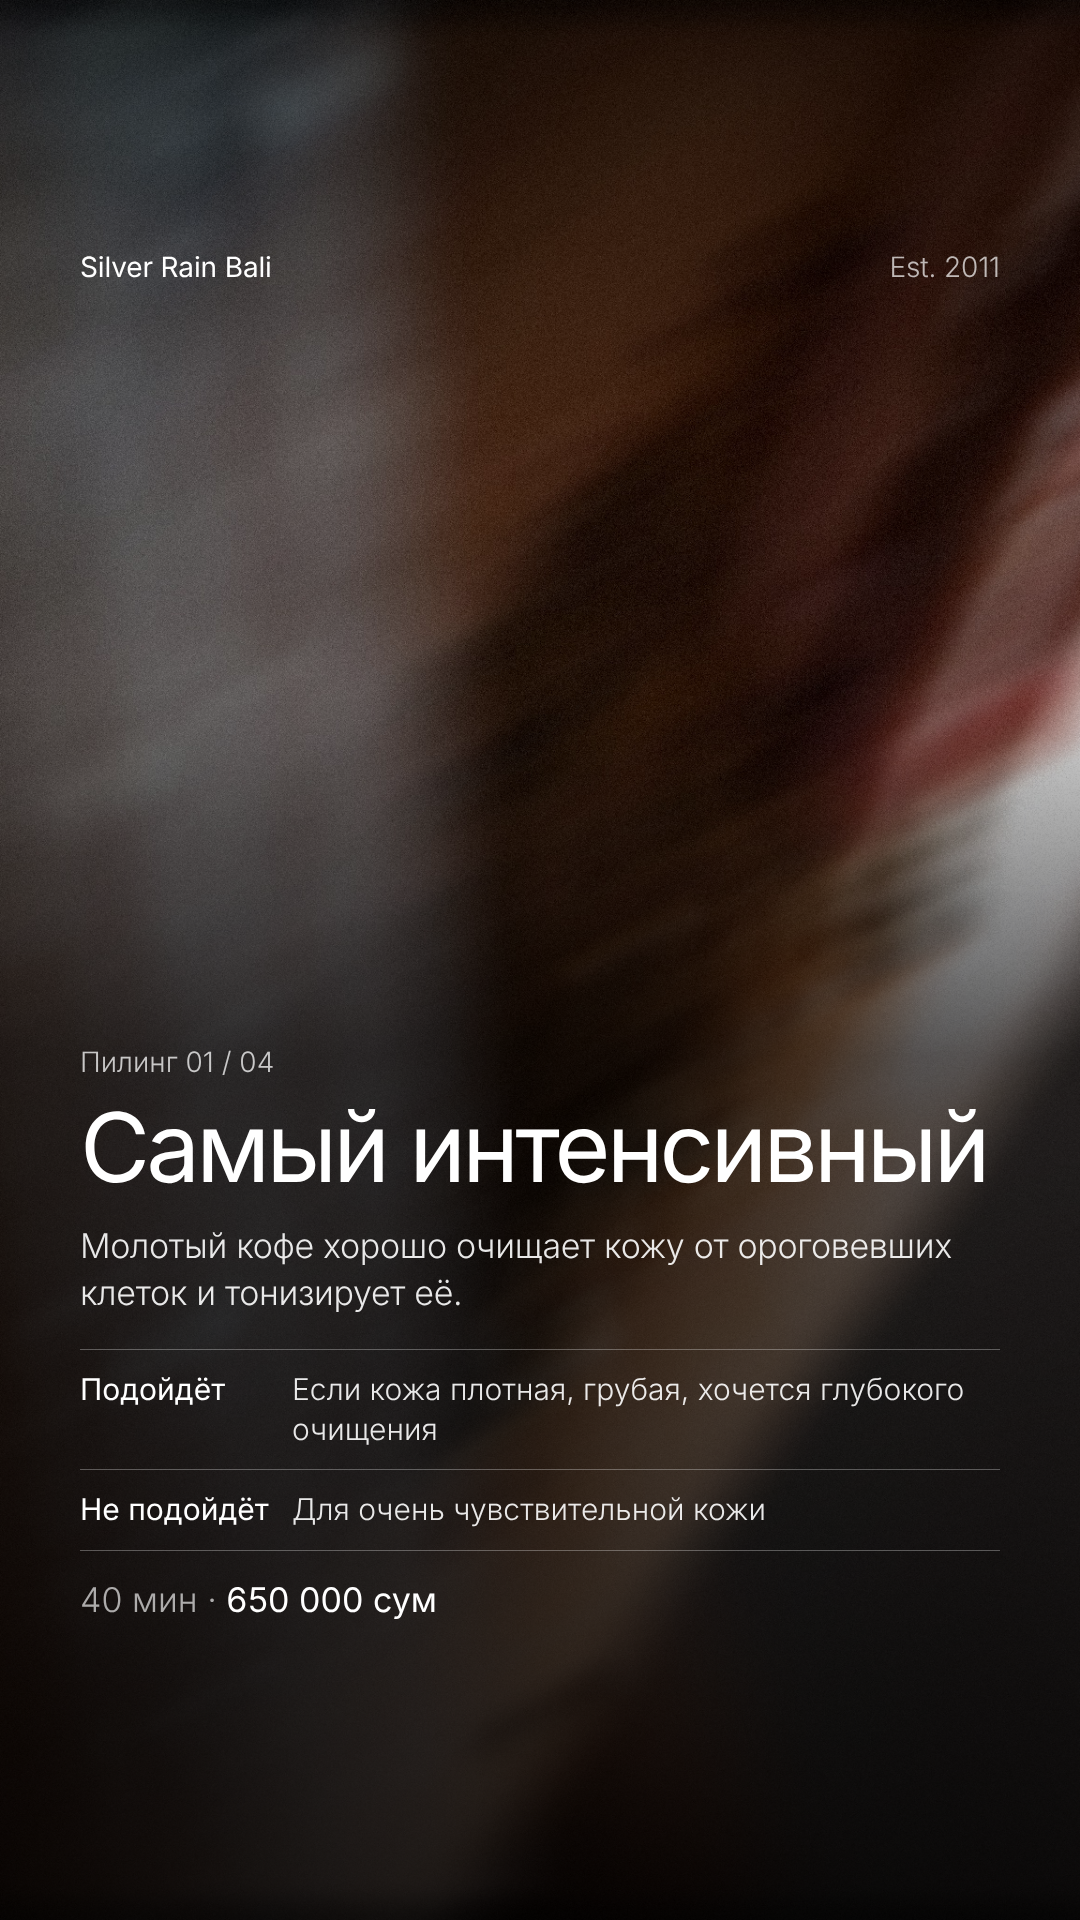
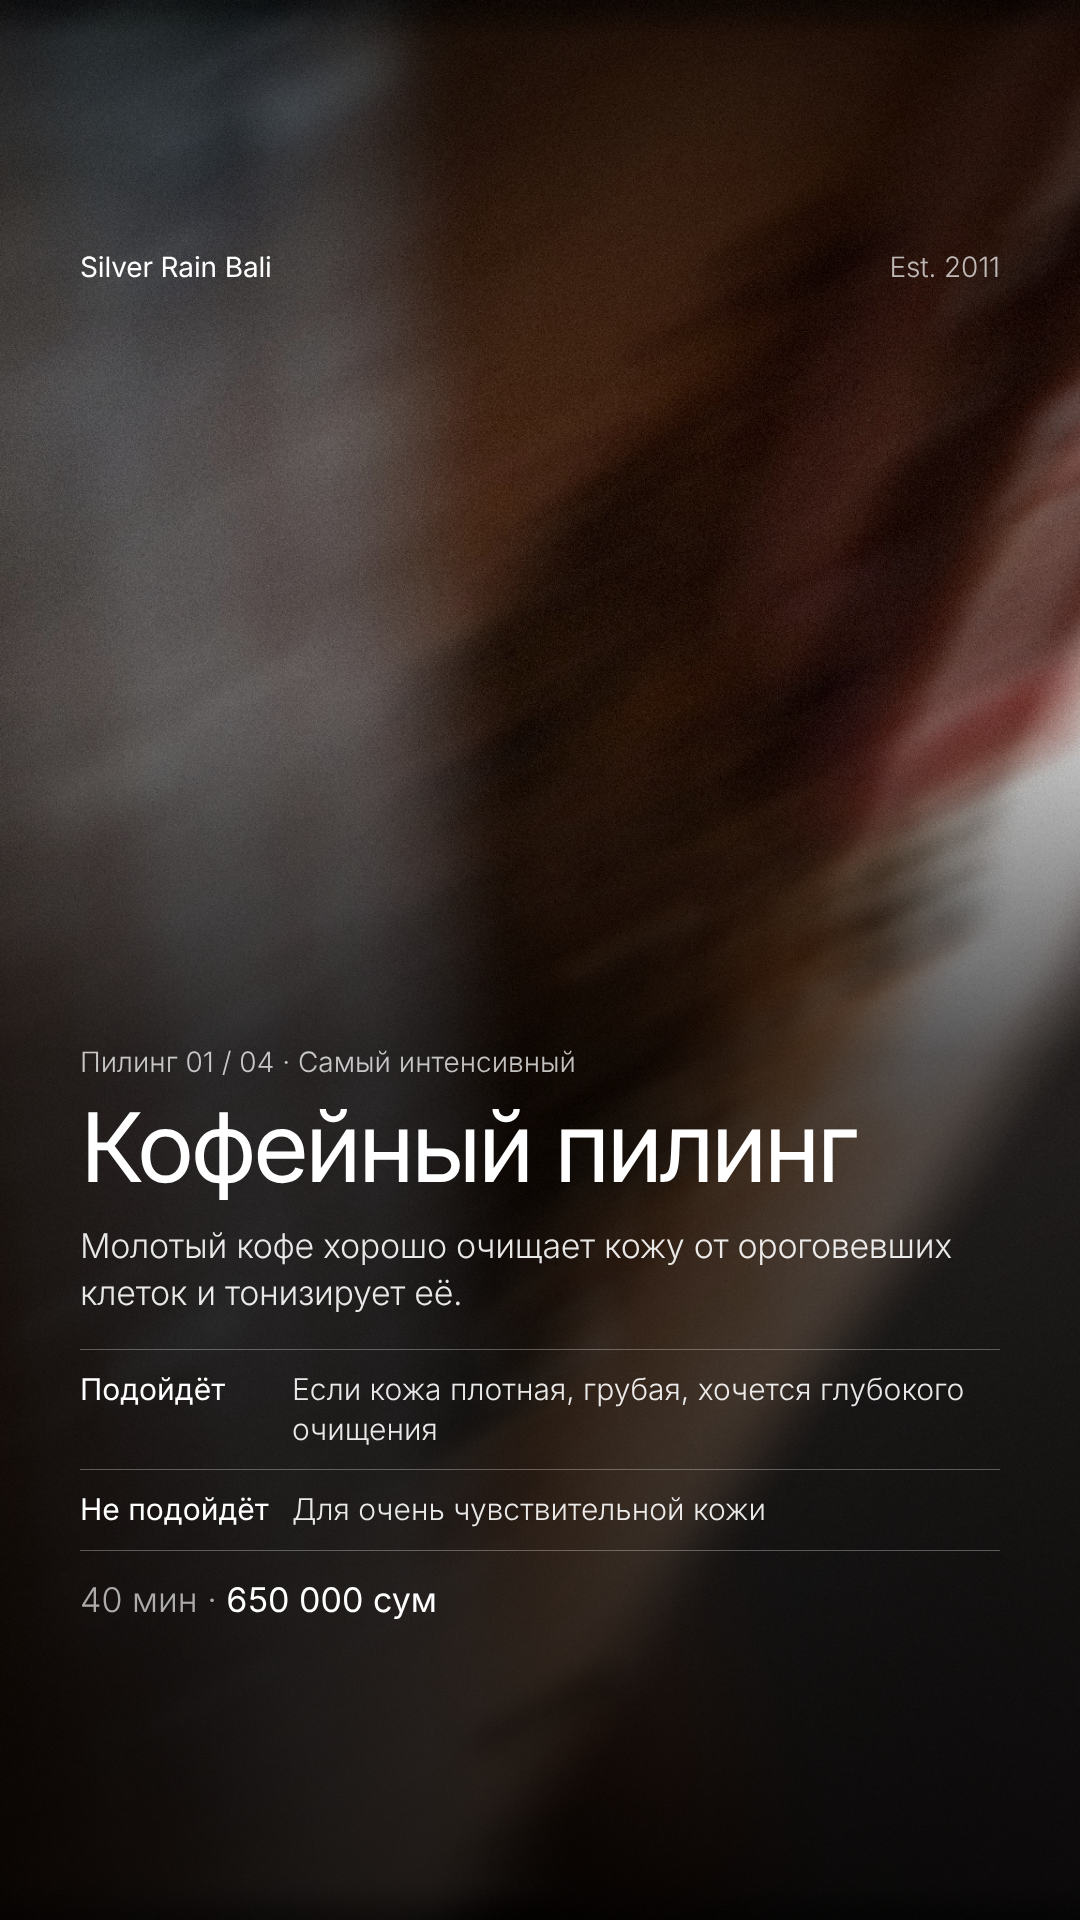
Silver Rain Bali stories: peeling 02 citrus; align peeling 01 layout
Claude-Session: https://claude.ai/code/session_016hDDYxXRao7raJTtdDbdUH

Changed region(s): [[0.0611, 0.5312, 0.6722, 0.625], [0.7028, 0.5625, 0.9167, 0.625]]

diff --git a/stories-silverrain/story45.html b/stories-silverrain/story45.html
@@ -1,0 +1,41 @@
+<!doctype html><html><head><meta charset="utf-8"><style>
+*{margin:0;padding:0;box-sizing:border-box}
+.story{position:relative;width:1080px;height:1920px;overflow:hidden;color:#FFF;
+  font-family:"SF Pro Display","Inter Display",sans-serif;-webkit-font-smoothing:antialiased;
+  background:url(peel3-blur.jpg) center/cover}
+.story::after{content:"";position:absolute;inset:0;background:linear-gradient(180deg,rgba(0,0,0,.30) 0%,rgba(0,0,0,0) 22%,rgba(0,0,0,0) 45%,rgba(0,0,0,.55) 75%,rgba(0,0,0,.70) 100%)}
+.z{position:absolute;z-index:2}
+.top{top:250px;left:80px;right:80px;display:flex;justify-content:space-between;font-size:28px;font-weight:400;letter-spacing:-.005em}
+.top .d{opacity:.7;font-weight:300}
+.txt{left:80px;right:80px;bottom:300px}
+h1{font-weight:300;font-size:96px;line-height:1;letter-spacing:-.04em}
+h1 b{font-weight:400}
+.body{margin-top:48px;font-size:38px;font-weight:300;line-height:1.38;letter-spacing:-.01em;color:rgba(255,255,255,.88)}
+.body b{font-weight:400;color:#FFF}
+.cta{margin-top:56px;display:inline-flex;align-items:center;gap:18px;padding:22px 34px;border:1.5px solid rgba(255,255,255,.7);border-radius:100px;font-size:30px;font-weight:400;letter-spacing:-.01em;background:rgba(255,255,255,.08);backdrop-filter:blur(10px)}
+.cta span{font-size:30px}
+.story::after{background:linear-gradient(180deg,rgba(0,0,0,.45) 0%,rgba(0,0,0,.1) 22%,rgba(0,0,0,.15) 36%,rgba(0,0,0,.65) 55%,rgba(0,0,0,.85) 100%)}
+.facts{margin-top:40px;display:flex;border-top:1px solid rgba(255,255,255,.3);border-bottom:1px solid rgba(255,255,255,.3)}
+.facts div{flex:1;padding:24px 0}
+.facts div+div{border-left:1px solid rgba(255,255,255,.3);padding-left:28px}
+.facts b{display:block;font-size:48px;font-weight:400;letter-spacing:-.03em}
+.facts span{font-size:24px;font-weight:300;color:rgba(255,255,255,.7)}
+.body{margin-top:36px}
+.pre{font-size:28px;font-weight:300;color:rgba(255,255,255,.75);margin-bottom:20px}
+.pd{margin-top:28px;font-size:34px;font-weight:300;line-height:1.38;color:rgba(255,255,255,.9);letter-spacing:-.01em}
+.yn{margin-top:32px;border-top:1px solid rgba(255,255,255,.3)}
+.yn div{display:flex;gap:22px;padding:20px 0;border-bottom:1px solid rgba(255,255,255,.3);font-size:30px;font-weight:300;line-height:1.32;color:rgba(255,255,255,.9)}
+.yn b{flex:0 0 190px;font-weight:400;color:#fff}
+.pr{margin-top:28px;font-size:34px;font-weight:400}
+.pr span{color:rgba(255,255,255,.65);font-weight:300}
+</style></head><body>
+<section class="story">
+  <div class="z top"><div>Silver Rain Bali</div><div class="d">Est. 2011</div></div>
+  <div class="z txt">
+    <div class="pre">Пилинг 02 / 04 · Освежающий</div>
+    <h1><b>Цитрусовый пилинг</b></h1>
+    <div class="pd">Средней интенсивности, с&nbsp;ярким цитрусовым ароматом. Освежает кожу и&nbsp;бодрит.</div>
+    <div class="yn"><div><b>Подойдёт</b><span>Когда кожа выглядит уставшей и&nbsp;тусклой, хочется лёгкости и&nbsp;энергии</span></div></div>
+    <div class="pr"><span>40 мин ·</span> 650 000 сум</div>
+  </div>
+</section></body></html>

diff --git a/stories-silverrain/story44.html b/stories-silverrain/story44.html
@@ -32,8 +32,8 @@ h1 b{font-weight:400}
 <section class="story">
   <div class="z top"><div>Silver Rain Bali</div><div class="d">Est. 2011</div></div>
   <div class="z txt">
-    <div class="pre">Пилинг 01 / 04</div>
-    <h1><b>Самый интенсивный</b></h1>
+    <div class="pre">Пилинг 01 / 04 · Самый интенсивный</div>
+    <h1><b>Кофейный пилинг</b></h1>
     <div class="pd">Молотый кофе хорошо очищает кожу от&nbsp;ороговевших клеток и&nbsp;тонизирует её.</div>
     <div class="yn"><div><b>Подойдёт</b><span>Если кожа плотная, грубая, хочется глубокого очищения</span></div><div><b>Не&nbsp;подойдёт</b><span>Для очень чувствительной кожи</span></div></div>
     <div class="pr"><span>40 мин ·</span> 650 000 сум</div>

diff --git a/stories-silverrain/peel-make.py b/stories-silverrain/peel-make.py
@@ -1,5 +1,6 @@
 import sys
 img,out,num,title,desc,yes,no=sys.argv[1:8]
+tag=sys.argv[8] if len(sys.argv)>8 else ""
 s=open('story43.html').read().replace('peel1-blur.jpg',img)
 s=s.replace('</style>','''.pre{font-size:28px;font-weight:300;color:rgba(255,255,255,.75);margin-bottom:20px}
 .pd{margin-top:28px;font-size:34px;font-weight:300;line-height:1.38;color:rgba(255,255,255,.9);letter-spacing:-.01em}
@@ -9,12 +10,13 @@ s=s.replace('</style>','''.pre{font-size:28px;font-weight:300;color:rgba(255,255
 .pr{margin-top:28px;font-size:34px;font-weight:400}
 .pr span{color:rgba(255,255,255,.65);font-weight:300}
 </style>''')
+nor=f'<div><b>Не&nbsp;подойдёт</b><span>{no}</span></div>' if no else ''
 a=s.index('<div class="z txt">'); b=s.index('</section>')
 s=s[:a]+f'''<div class="z txt">
-    <div class="pre">Пилинг {num} / 04</div>
+    <div class="pre">Пилинг {num} / 04{(" · "+tag) if tag else ""}</div>
     <h1><b>{title}</b></h1>
     <div class="pd">{desc}</div>
-    <div class="yn"><div><b>Подойдёт</b><span>{yes}</span></div><div><b>Не&nbsp;подойдёт</b><span>{no}</span></div></div>
+    <div class="yn"><div><b>Подойдёт</b><span>{yes}</span></div>{nor}</div>
     <div class="pr"><span>40 мин ·</span> 650 000 сум</div>
   </div>
 '''+s[b:]
